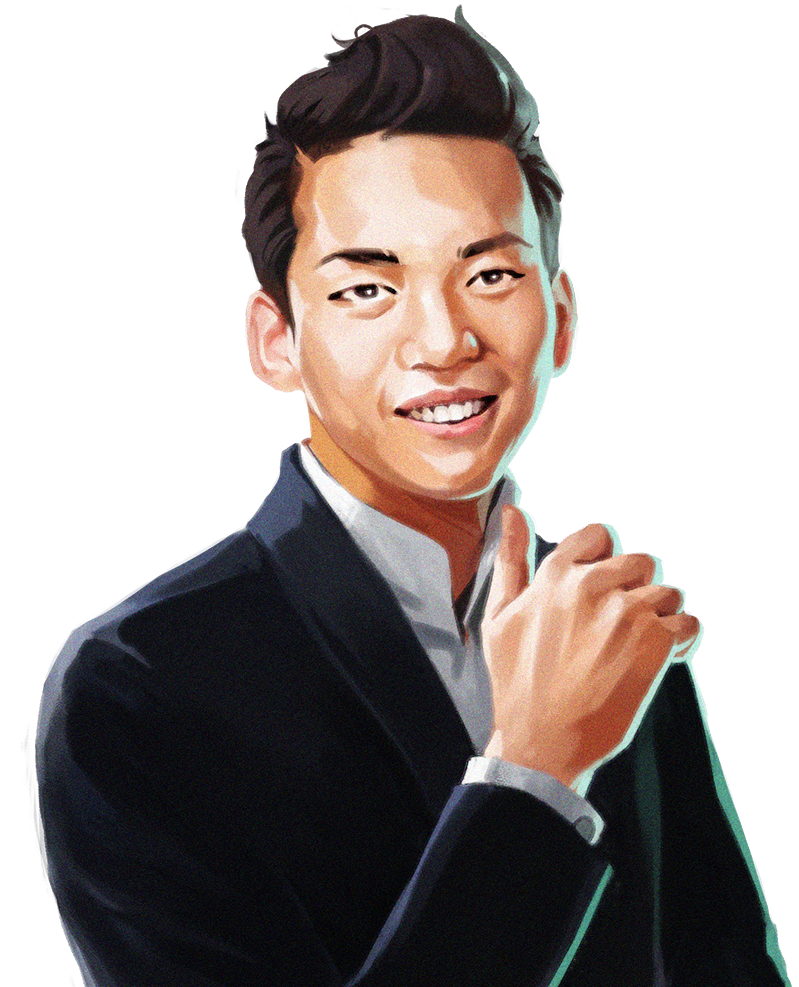
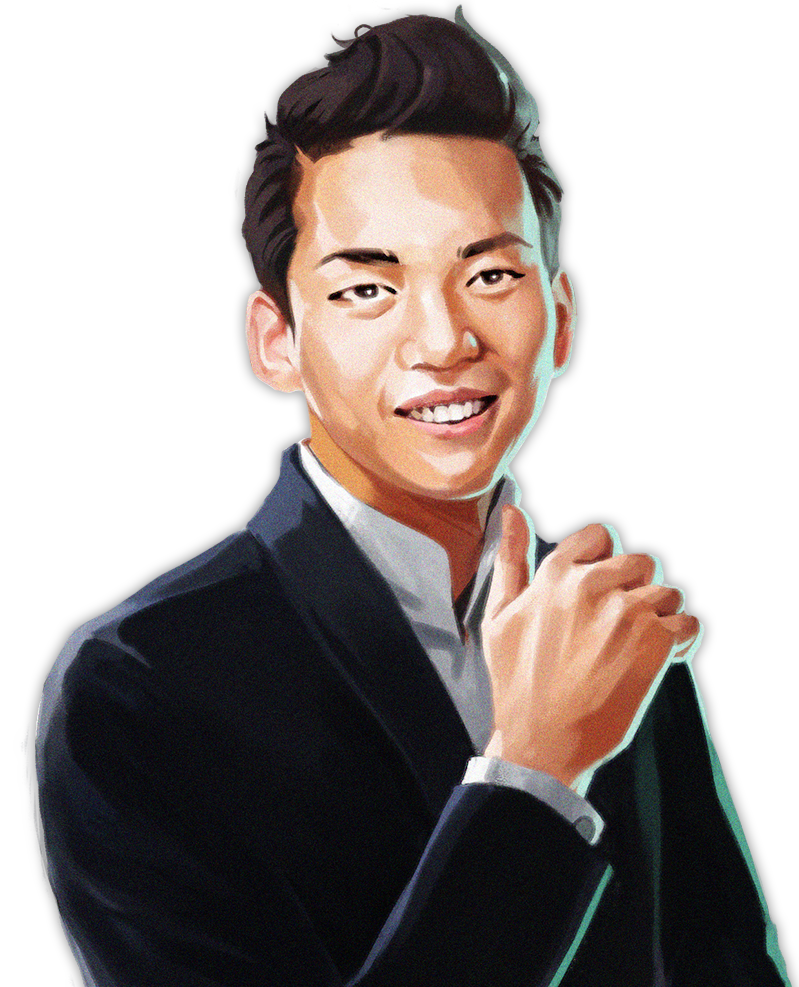
Added a subtle drop shadow to the founder message portrait.

diff --git a/components/founder_message/_founder_message.scss b/components/founder_message/_founder_message.scss
@@ -26,17 +26,17 @@ $founder-block-min-height: 15em;
 ///
 /// Founder photo URL on 1x density.
 ///
-$founder-photo-url-1x: 'founder_message_portait_1x.webp?v=2';
+$founder-photo-url-1x: 'founder_message_portait_1x.webp?v=3';
 
 ///
 /// Founder photo URL on 2x density.
 ///
-$founder-photo-url-2x: 'founder_message_portait_2x.webp?v=2';
+$founder-photo-url-2x: 'founder_message_portait_2x.webp?v=3';
 
 ///
 /// Founder photo URL for browsers that don't support WebP.
 ///
-$founder-photo-url-fallback: 'founder_message_portait_1x.png?v=2';
+$founder-photo-url-fallback: 'founder_message_portait_1x.png?v=3';
 
 ///
 /// Founder photo maximum width when inline, i.e. beside content.
